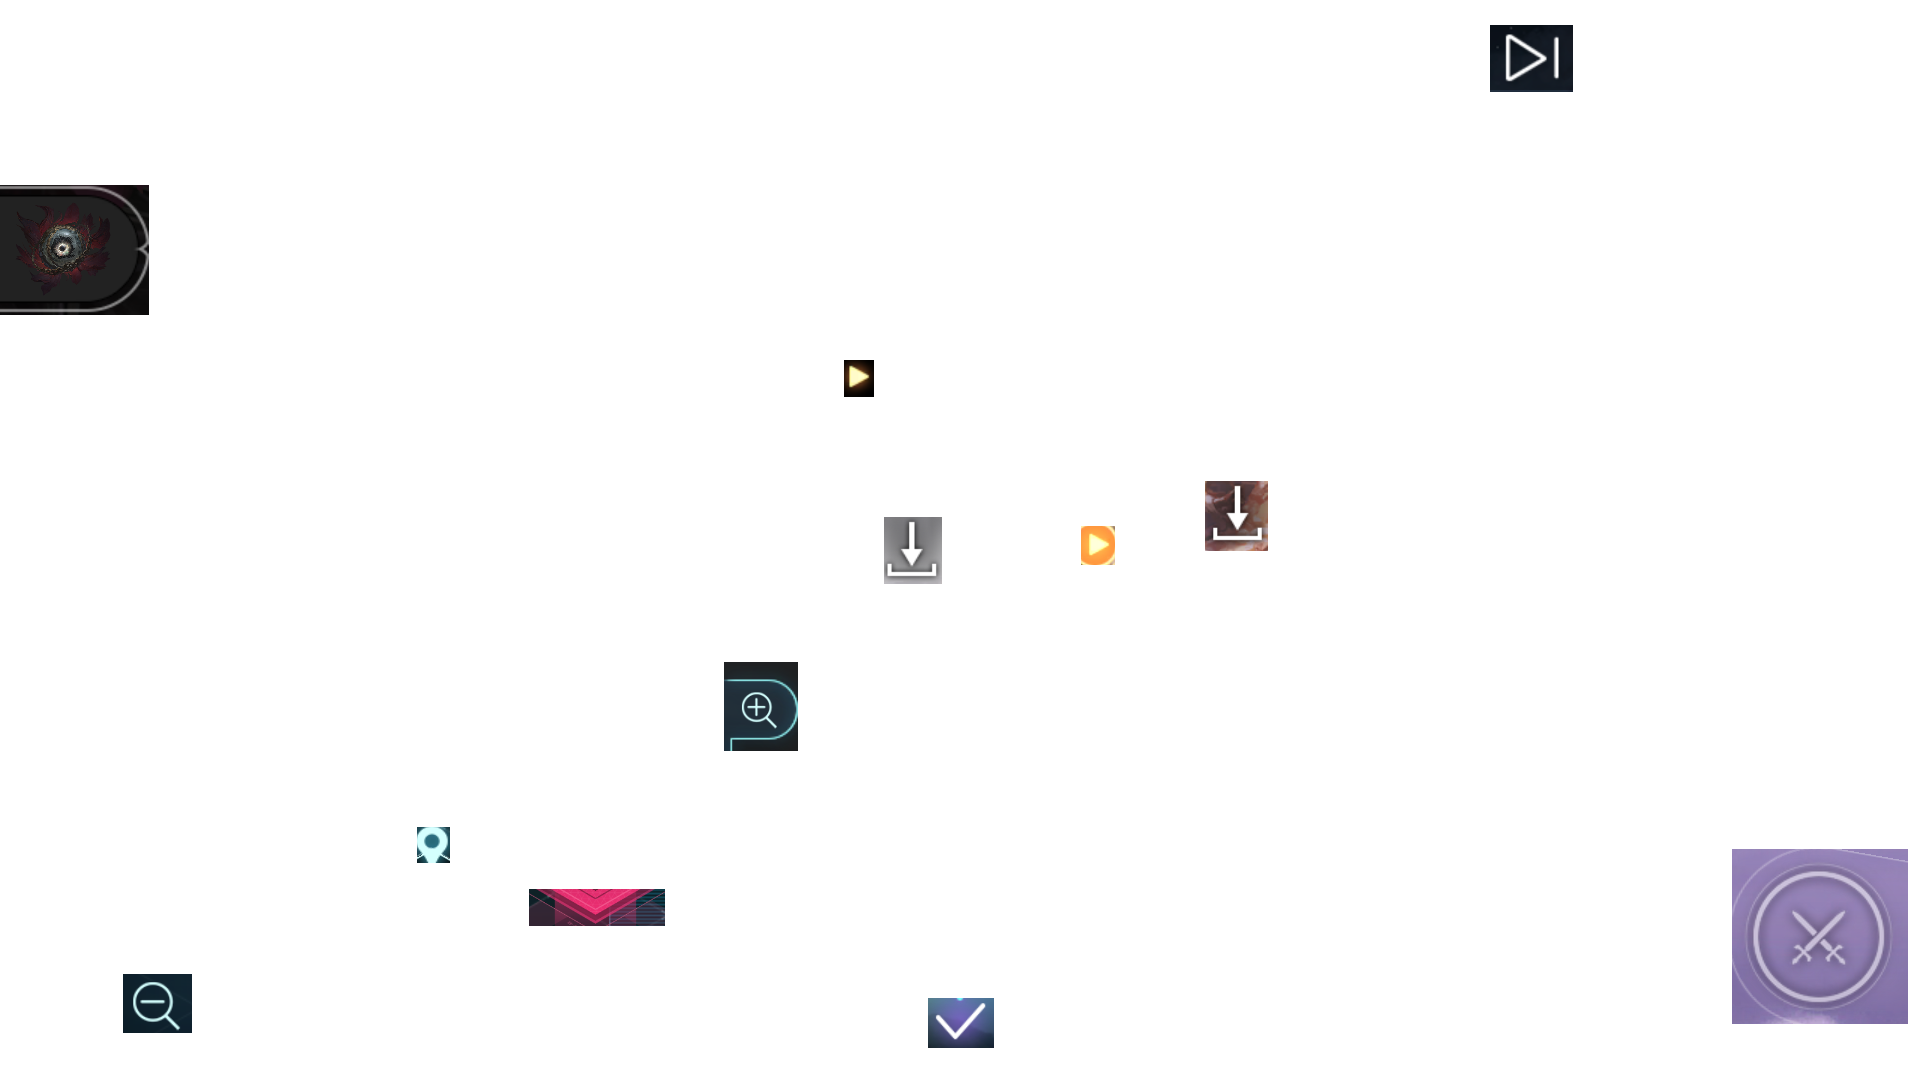
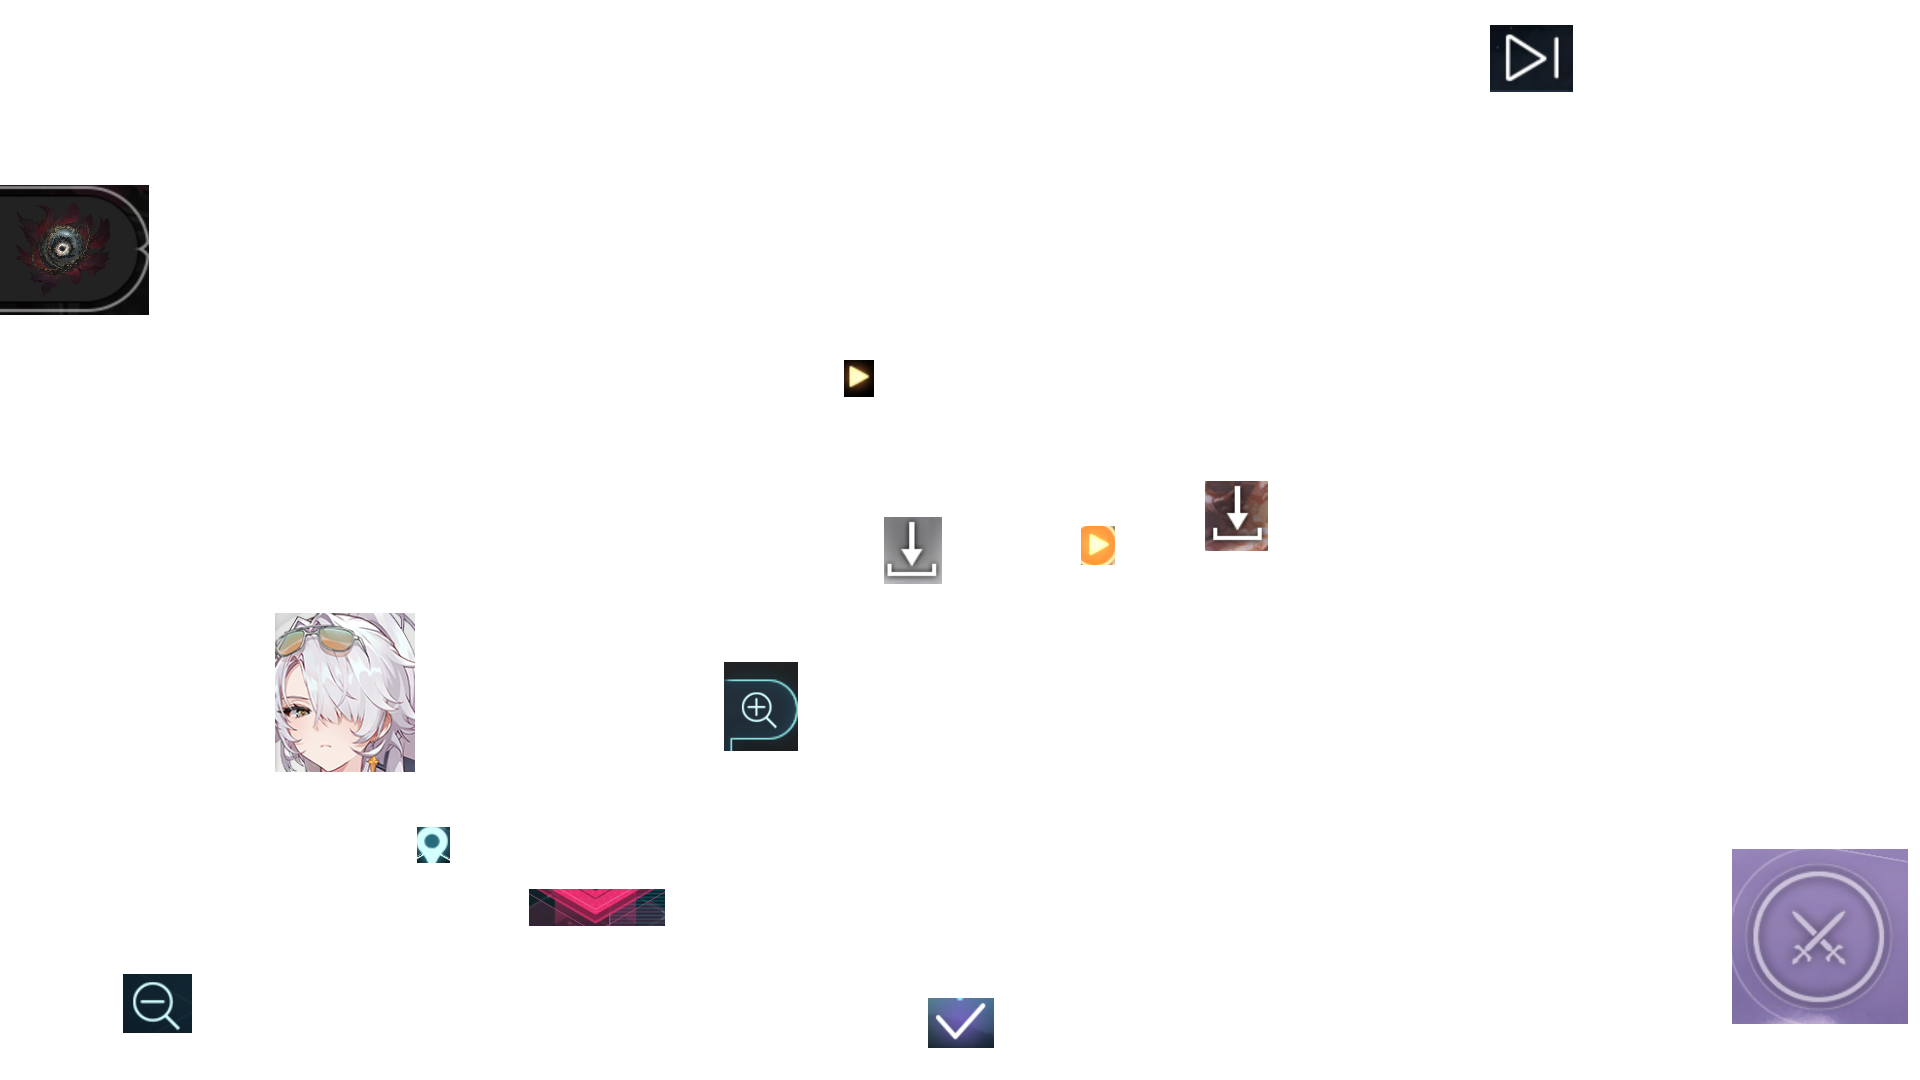
出战主战员选择增加模板匹配兜底（九→nine）

Changed region(s): [[0.125, 0.55, 0.2188, 0.7333]]

diff --git a/ok_tasks/utils_sortie.py b/ok_tasks/utils_sortie.py
@@ -248,6 +248,12 @@ def _confirm_battle_member_selection(task: TriggerTask):
     return True
 
 
+# 主战员名称 → 模板特征名映射字典（用于OCR识别不到时的模板匹配兜底）
+_MEMBER_FEATURE_MAP = {
+    "九": "nine",
+}
+
+
 def _select_battle_member(task: TriggerTask, max_scrolls=5):
     """按出战主战员优先级选择列表角色；找不到配置角色则随机选择。"""
     priority = _get_battle_member_priority(task)
@@ -270,7 +276,23 @@ def _select_battle_member(task: TriggerTask, max_scrolls=5):
                 task.sleep(0.5)
                 return _confirm_battle_member_selection(task)
             else:
-                task.log_info(f"出战主战员优先级匹配失败: 「{name}」未在当前列出的{len(boxes)}个主战员中")
+                # OCR 未匹配到，尝试用模板匹配兜底
+                feature_name = _MEMBER_FEATURE_MAP.get(name)
+                if feature_name and task.feature_exists(feature_name):
+                    task.log_info(f"出战主战员OCR未匹配到「{name}」，尝试模板匹配 feature=「{feature_name}」")
+                    search_box = task.box_of_screen(0.096, 0.097, 0.988, 0.896)
+                    feature_box = task.find_one(feature_name=feature_name, box=search_box, threshold=0.5)
+                    if feature_box:
+                        cx = (feature_box.x + feature_box.width / 2) / task.width
+                        cy = (feature_box.y + feature_box.height / 2) / task.height
+                        task.log_info(f"出战主战员模板匹配成功: 配置名「{name}」 feature=「{feature_name}」 cx={cx:.4f} cy={cy:.4f}, 相似度={feature_box.confidence:.4f}")
+                        task.click_box(feature_box)
+                        task.sleep(0.5)
+                        return _confirm_battle_member_selection(task)
+                    else:
+                        task.log_info(f"出战主战员模板匹配失败: 「{name}」(feature=「{feature_name}」) 未找到")
+                else:
+                    task.log_info(f"出战主战员优先级匹配失败: 「{name}」未在当前列出的{len(boxes)}个主战员中")
         if scroll_index < max_scrolls:
             task.log_info(f"第{scroll_index + 1}次未匹配到任何优先级角色, 向下滚动重试")
             task.scroll_relative(0.5, 0.7, -3)